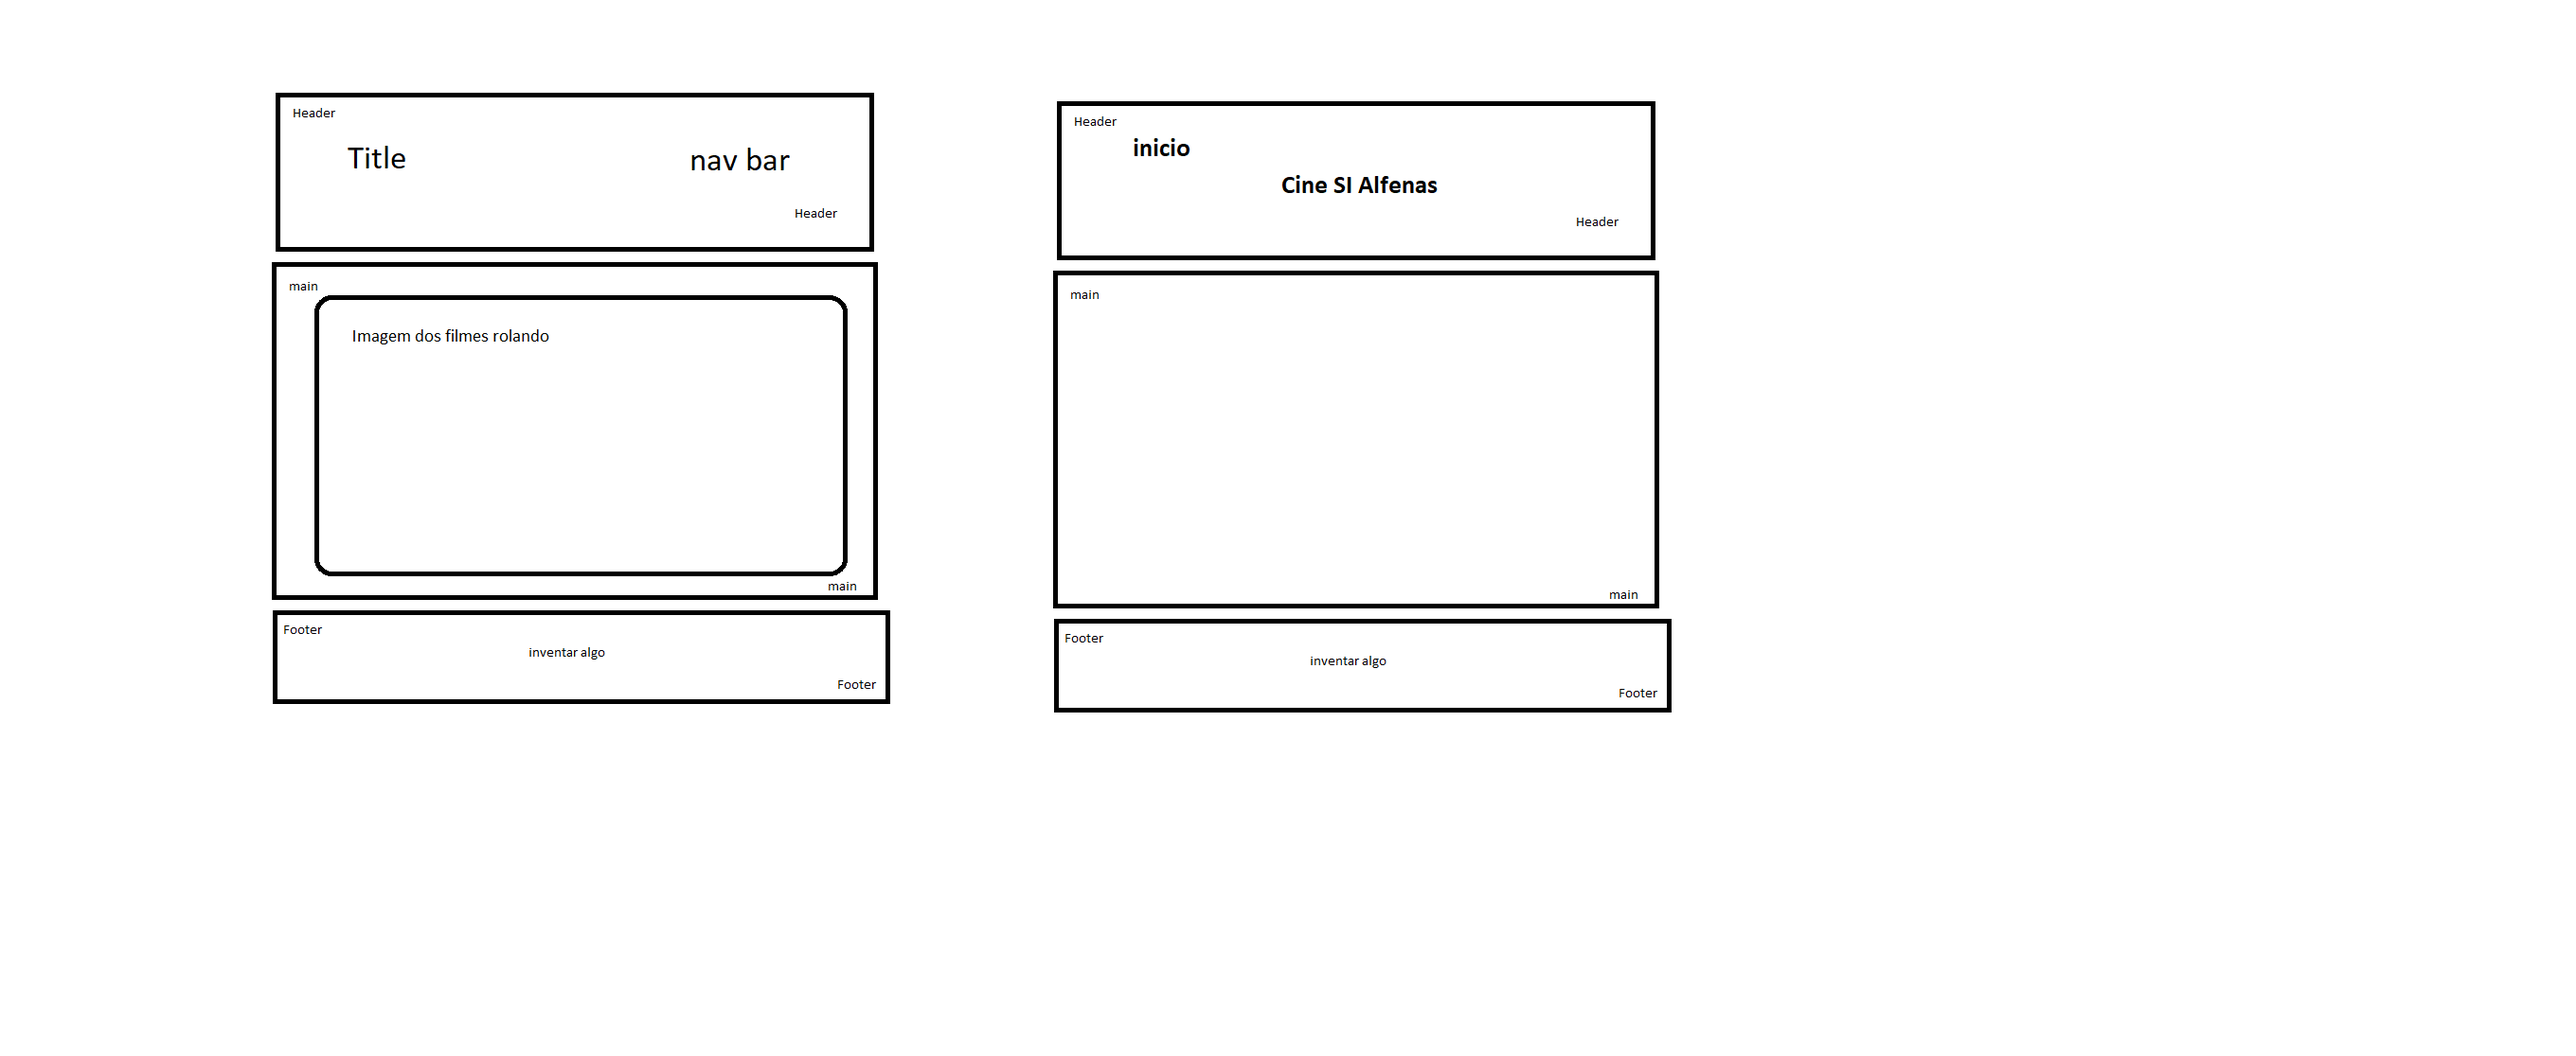
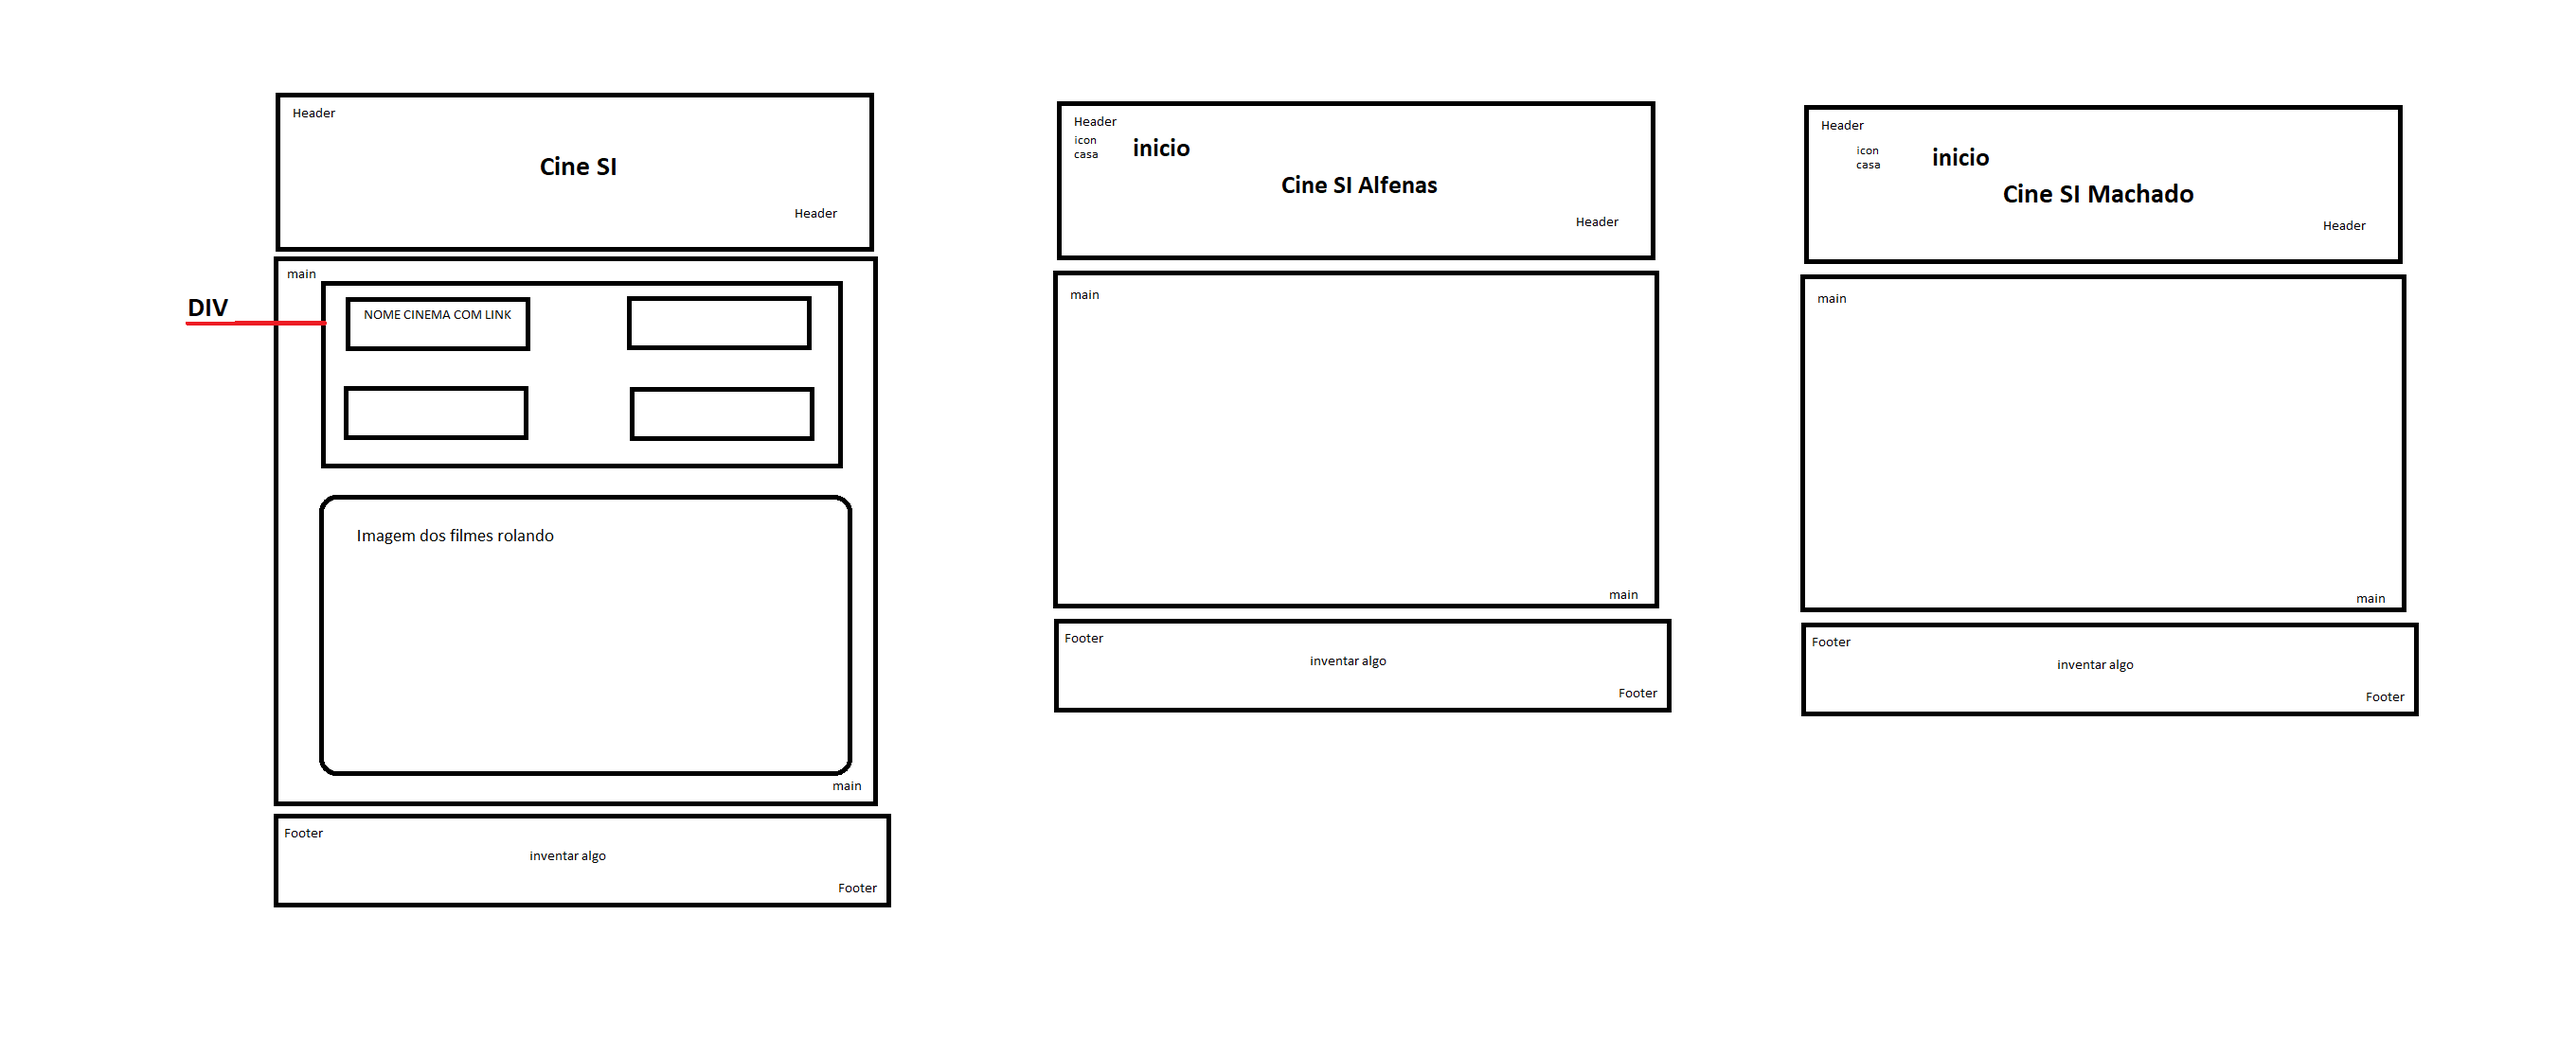
tdi trabalho cinema - estruturação dos sites

diff --git a/Sistemas de informação/4ºperiodo/TDI_I/Trabalhos/loja-carros-2/index.html b/Sistemas de informação/4ºperiodo/TDI_I/Trabalhos/loja-carros-2/index.html
@@ -1,5 +1,5 @@
 <!DOCTYPE html>
-<html lang="en">
+<html lang="PT-BR"">
 <head>
     <meta charset="UTF-8">
     <meta name="viewport" content="width=device-width, initial-scale=1.0">
@@ -11,7 +11,7 @@
         <h1 id="Titulo">AutoMóveis</h1>
 
         <div id="logo">
-            <img class="card-imgsConfig-logo" src="/Sistemas de informação/4ºperiodo/TDI_I/Trabalhos/loja-carros-2/logo/logo-lamborghini-256.png" alt="">
+            <img class="card-imgsConfig-logo" src="/Sistemas de informação/4ºperiodo/TDI_I/Trabalhos/loja-carros-2/logo/logo-lamborghini-256.png" alt="Imagem dA logo lamborghini">
         </div>
     </header>
 
@@ -19,7 +19,7 @@
         <div class="card">
 
             <div class="card-img">
-                <img class="card-imgsConfig" src="/Sistemas de informação/4ºperiodo/TDI_I/Trabalhos/loja-carros-2/urus/urus-1.jpg" alt="">
+                <img class="card-imgsConfig" src="/Sistemas de informação/4ºperiodo/TDI_I/Trabalhos/loja-carros-2/urus/urus-1.jpg" alt="Imagem de carro">
             </div>
 
             <div class="card-info" id="card-urus-info">
@@ -40,7 +40,7 @@
         <div class="card">
 
             <div class="card-img">
-                <img class="card-imgsConfig" src="/Sistemas de informação/4ºperiodo/TDI_I/Trabalhos/loja-carros-2/gallardo/gallardo-1.jpg" alt="">
+                <img class="card-imgsConfig" src="/Sistemas de informação/4ºperiodo/TDI_I/Trabalhos/loja-carros-2/gallardo/gallardo-1.jpg" alt="Imagem de carro">
             </div>
 
             <div class="card-info" id="card-gallardo-info">
@@ -62,7 +62,7 @@
         <div class="card">
 
             <div class="card-img">
-                <img class="card-imgsConfig" src="/Sistemas de informação/4ºperiodo/TDI_I/Trabalhos/loja-carros-2/huracan/huracan-1.jpg" alt="">
+                <img class="card-imgsConfig" src="/Sistemas de informação/4ºperiodo/TDI_I/Trabalhos/loja-carros-2/huracan/huracan-1.jpg" alt="Imagem de carro">
             </div>
 
             <div class="card-info" id="card-huracan-info">
@@ -84,7 +84,7 @@
         <div class="card">
 
             <div class="card-img">
-                <img class="card-imgsConfig" src="/Sistemas de informação/4ºperiodo/TDI_I/Trabalhos/loja-carros-2/aventador/aventador-1.jpg" alt="">
+                <img class="card-imgsConfig" src="/Sistemas de informação/4ºperiodo/TDI_I/Trabalhos/loja-carros-2/aventador/aventador-1.jpg" alt="Imagem de carro">
             </div>
 
             <div class="card-info" id="card-aventador-info">

diff --git a/Sistemas de informação/4ºperiodo/TDI_I/Trabalhos/projeto_cinema/cidades/alfenas.html b/Sistemas de informação/4ºperiodo/TDI_I/Trabalhos/projeto_cinema/cidades/alfenas.html
@@ -1,11 +1,80 @@
 <!DOCTYPE html>
-<html lang="en">
+<html lang="PT-BR">
 <head>
     <meta charset="UTF-8">
     <meta name="viewport" content="width=device-width, initial-scale=1.0">
-    <title>Document</title>
+    <title>Alefenas-MG</title>
 </head>
 <body>
+
+    <header>
+        <div>
+            <img src="" alt="Icone de home para icinio da pagina">
+            <p>Início</p>
+        </div>
+
+        <div>
+            <h1>Cine SI Alefenas-MG</h1>
+        </div>
+
+    </header>
     
+    <main>
+
+        <div class="cards" id="card1">
+
+            <p></p>
+
+            <img src="" alt="Foto do filme em questão">
+
+        </div>
+
+        <div class="cards" id="card1">
+
+            <p></p>
+
+            <img src="" alt="Foto do filme em questão">
+
+        </div>
+
+        <div class="cards" id="card1">
+
+            <p></p>
+
+            <img src="" alt="Foto do filme em questão">
+
+        </div>
+
+        <div class="cards" id="card1">
+
+            <p></p>
+
+            <img src="" alt="Foto do filme em questão">
+
+        </div>
+
+        <div class="cards" id="card1">
+
+            <p></p>
+
+            <img src="" alt="Foto do filme em questão">
+
+        </div>
+
+        <div class="cards" id="card1">
+
+            <p></p>
+
+            <img src="" alt="Foto do filme em questão">
+
+        </div>
+
+    </main>
+
+    <footer>
+
+    </footer>
+
+
 </body>
 </html>

diff --git a/Sistemas de informação/4ºperiodo/TDI_I/Trabalhos/projeto_cinema/cidades/machado.html b/Sistemas de informação/4ºperiodo/TDI_I/Trabalhos/projeto_cinema/cidades/machado.html
@@ -1,11 +1,80 @@
 <!DOCTYPE html>
-<html lang="en">
+<html lang="PT-BR">
 <head>
     <meta charset="UTF-8">
     <meta name="viewport" content="width=device-width, initial-scale=1.0">
-    <title>Document</title>
+    <title>Machado-MG</title>
 </head>
 <body>
+
+    <header>
+        <div>
+            <img src="" alt="Icone de home para icinio da pagina">
+            <p>Início</p>
+        </div>
+
+        <div>
+            <h1>Cine SI Machado-MG</h1>
+        </div>
+
+    </header>
     
+    <main>
+
+        <div class="cards" id="card1">
+
+            <p></p>
+
+            <img src="" alt="Foto do filme em questão">
+
+        </div>
+
+        <div class="cards" id="card1">
+
+            <p></p>
+
+            <img src="" alt="Foto do filme em questão">
+
+        </div>
+
+        <div class="cards" id="card1">
+
+            <p></p>
+
+            <img src="" alt="Foto do filme em questão">
+
+        </div>
+
+        <div class="cards" id="card1">
+
+            <p></p>
+
+            <img src="" alt="Foto do filme em questão">
+
+        </div>
+
+        <div class="cards" id="card1">
+
+            <p></p>
+
+            <img src="" alt="Foto do filme em questão">
+
+        </div>
+
+        <div class="cards" id="card1">
+
+            <p></p>
+
+            <img src="" alt="Foto do filme em questão">
+
+        </div>
+
+    </main>
+
+    <footer>
+
+    </footer>
+
+
 </body>
 </html>

diff --git a/Sistemas de informação/4ºperiodo/TDI_I/Trabalhos/projeto_cinema/index.html b/Sistemas de informação/4ºperiodo/TDI_I/Trabalhos/projeto_cinema/index.html
@@ -1,5 +1,5 @@
 <!DOCTYPE html>
-<html lang="en">
+<html lang="PT-BR">
 <head>
     <meta charset="UTF-8">
     <meta name="viewport" content="width=device-width, initial-scale=1.0">
@@ -12,6 +12,30 @@
 
     <main>
         
+        <div class="main-div-cinemas">
+
+            <div class="card-cinemas">
+                <h2><a href="">Alefenas-MG</a></h2>
+            </div>
+
+            <div class="card-cinemas">
+                <h2><a href="">Macahdo-MG</a></h2>
+            </div>
+
+        </div>
+
+        <div class="main-div-imgs">
+
+
+        </div>
+
+
     </main>
+
+    <footer>
+        <p>
+            n sei oq escrever ainda
+        </p>
+    </footer>
 </body>
 </html>

diff --git a/Sistemas de informação/4ºperiodo/TDI_I/Trabalhos/loja-carros/index.html b/Sistemas de informação/4ºperiodo/TDI_I/Trabalhos/loja-carros/index.html
@@ -1,5 +1,5 @@
 <!DOCTYPE html>
-<html lang="en">
+<html lang="PT-BR"">
 <head>
     <meta charset="UTF-8">
     <meta name="viewport" content="width=device-width, initial-scale=1.0">
